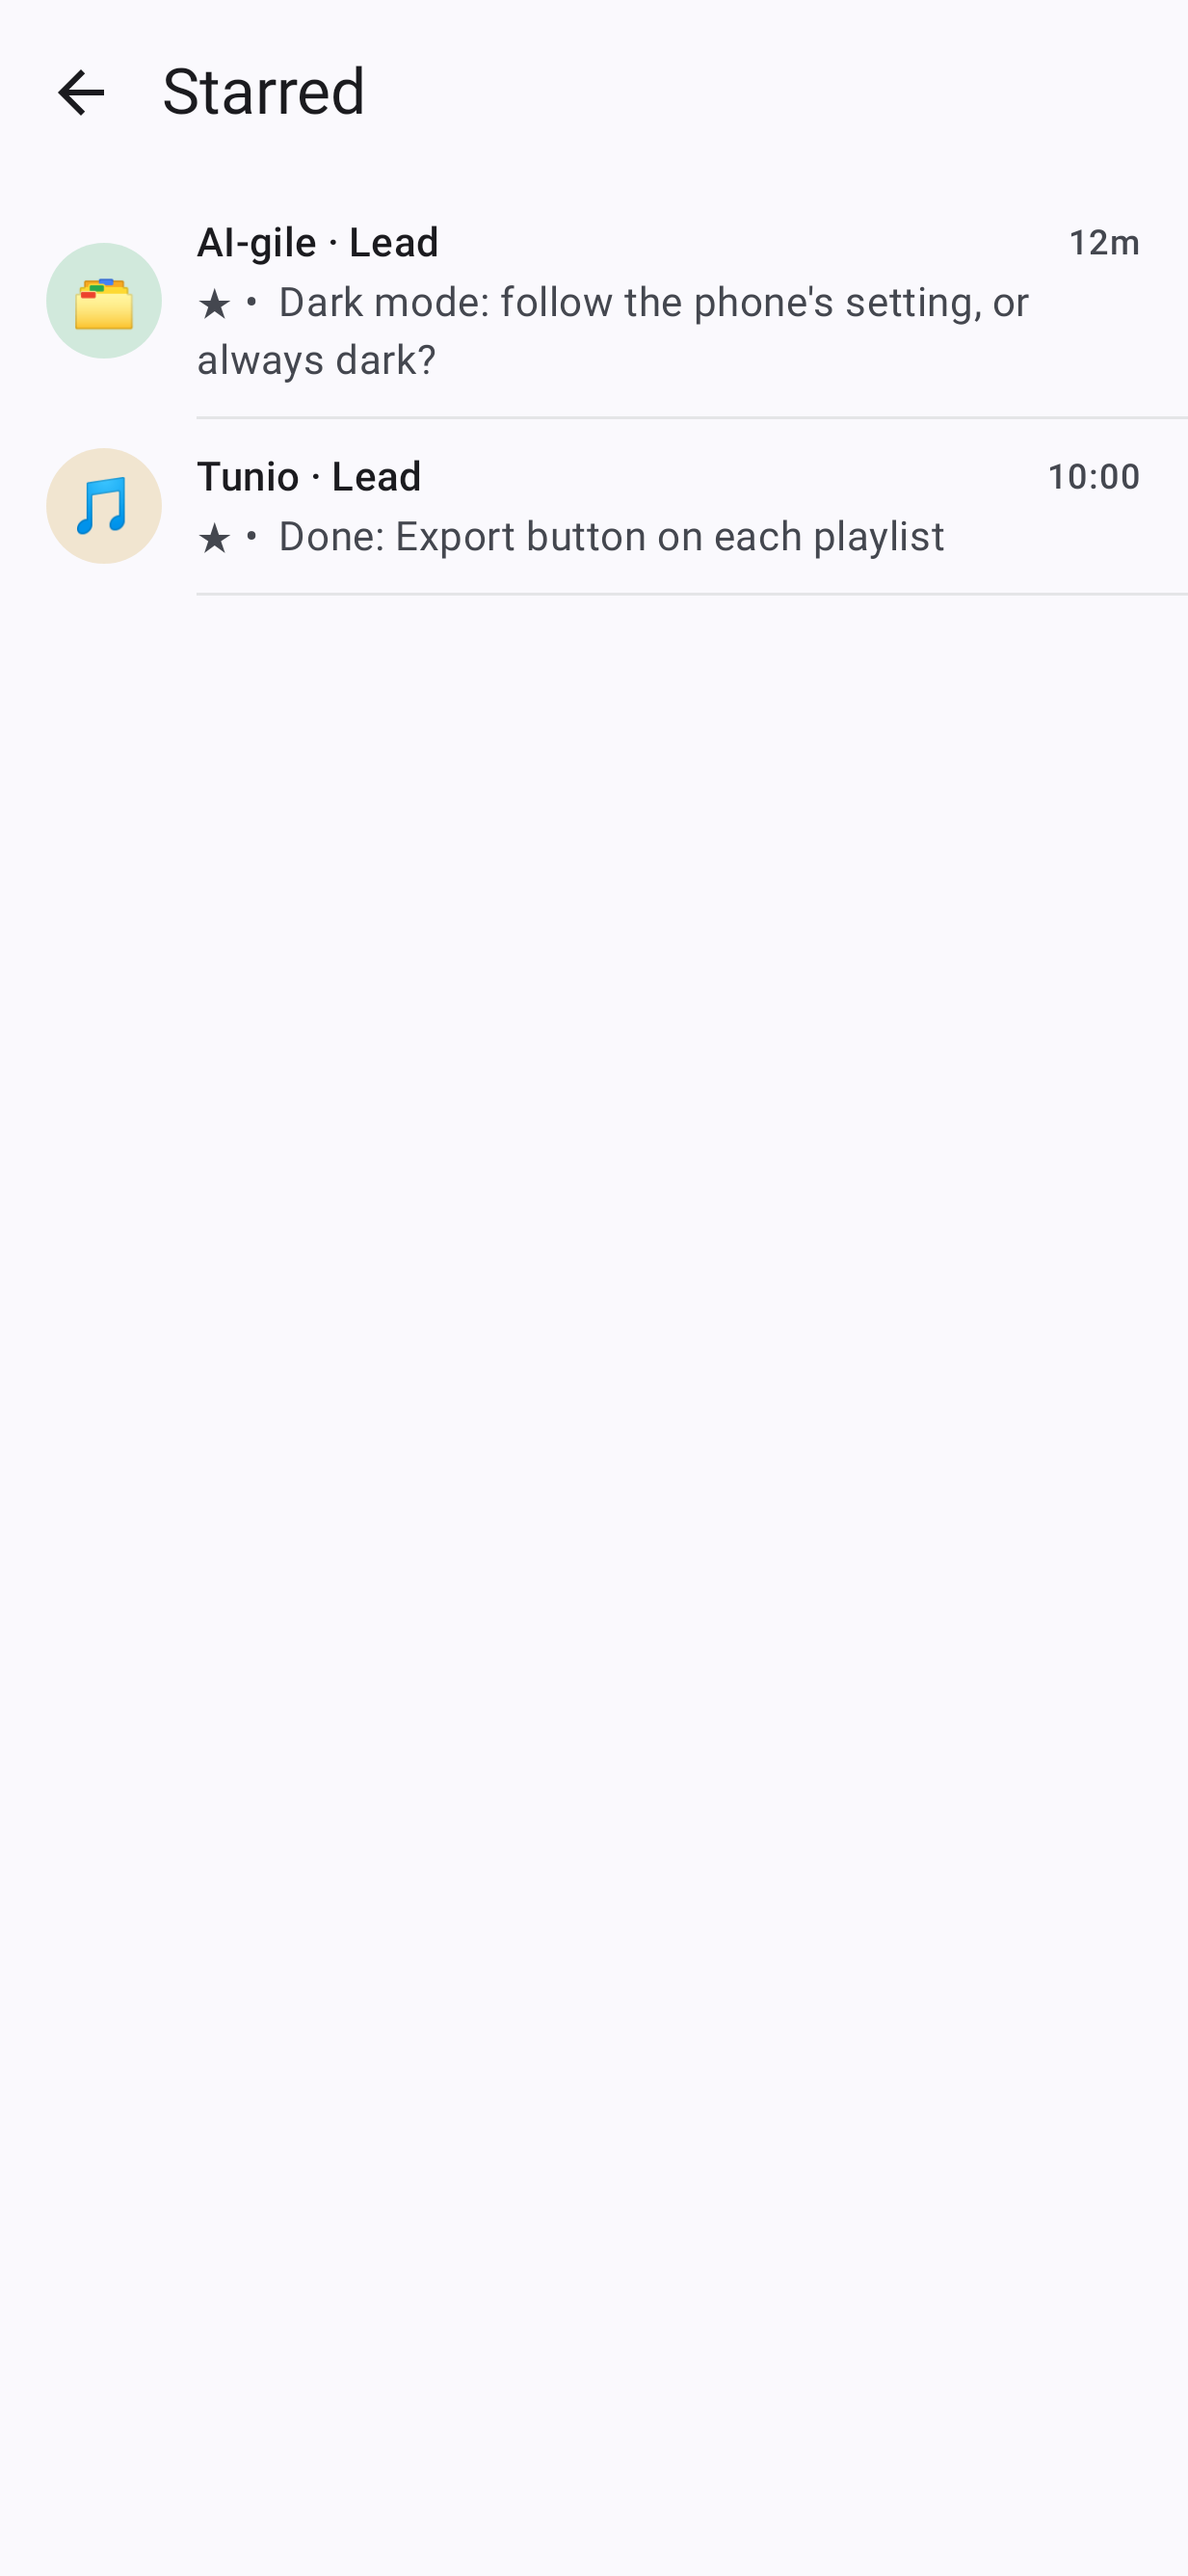
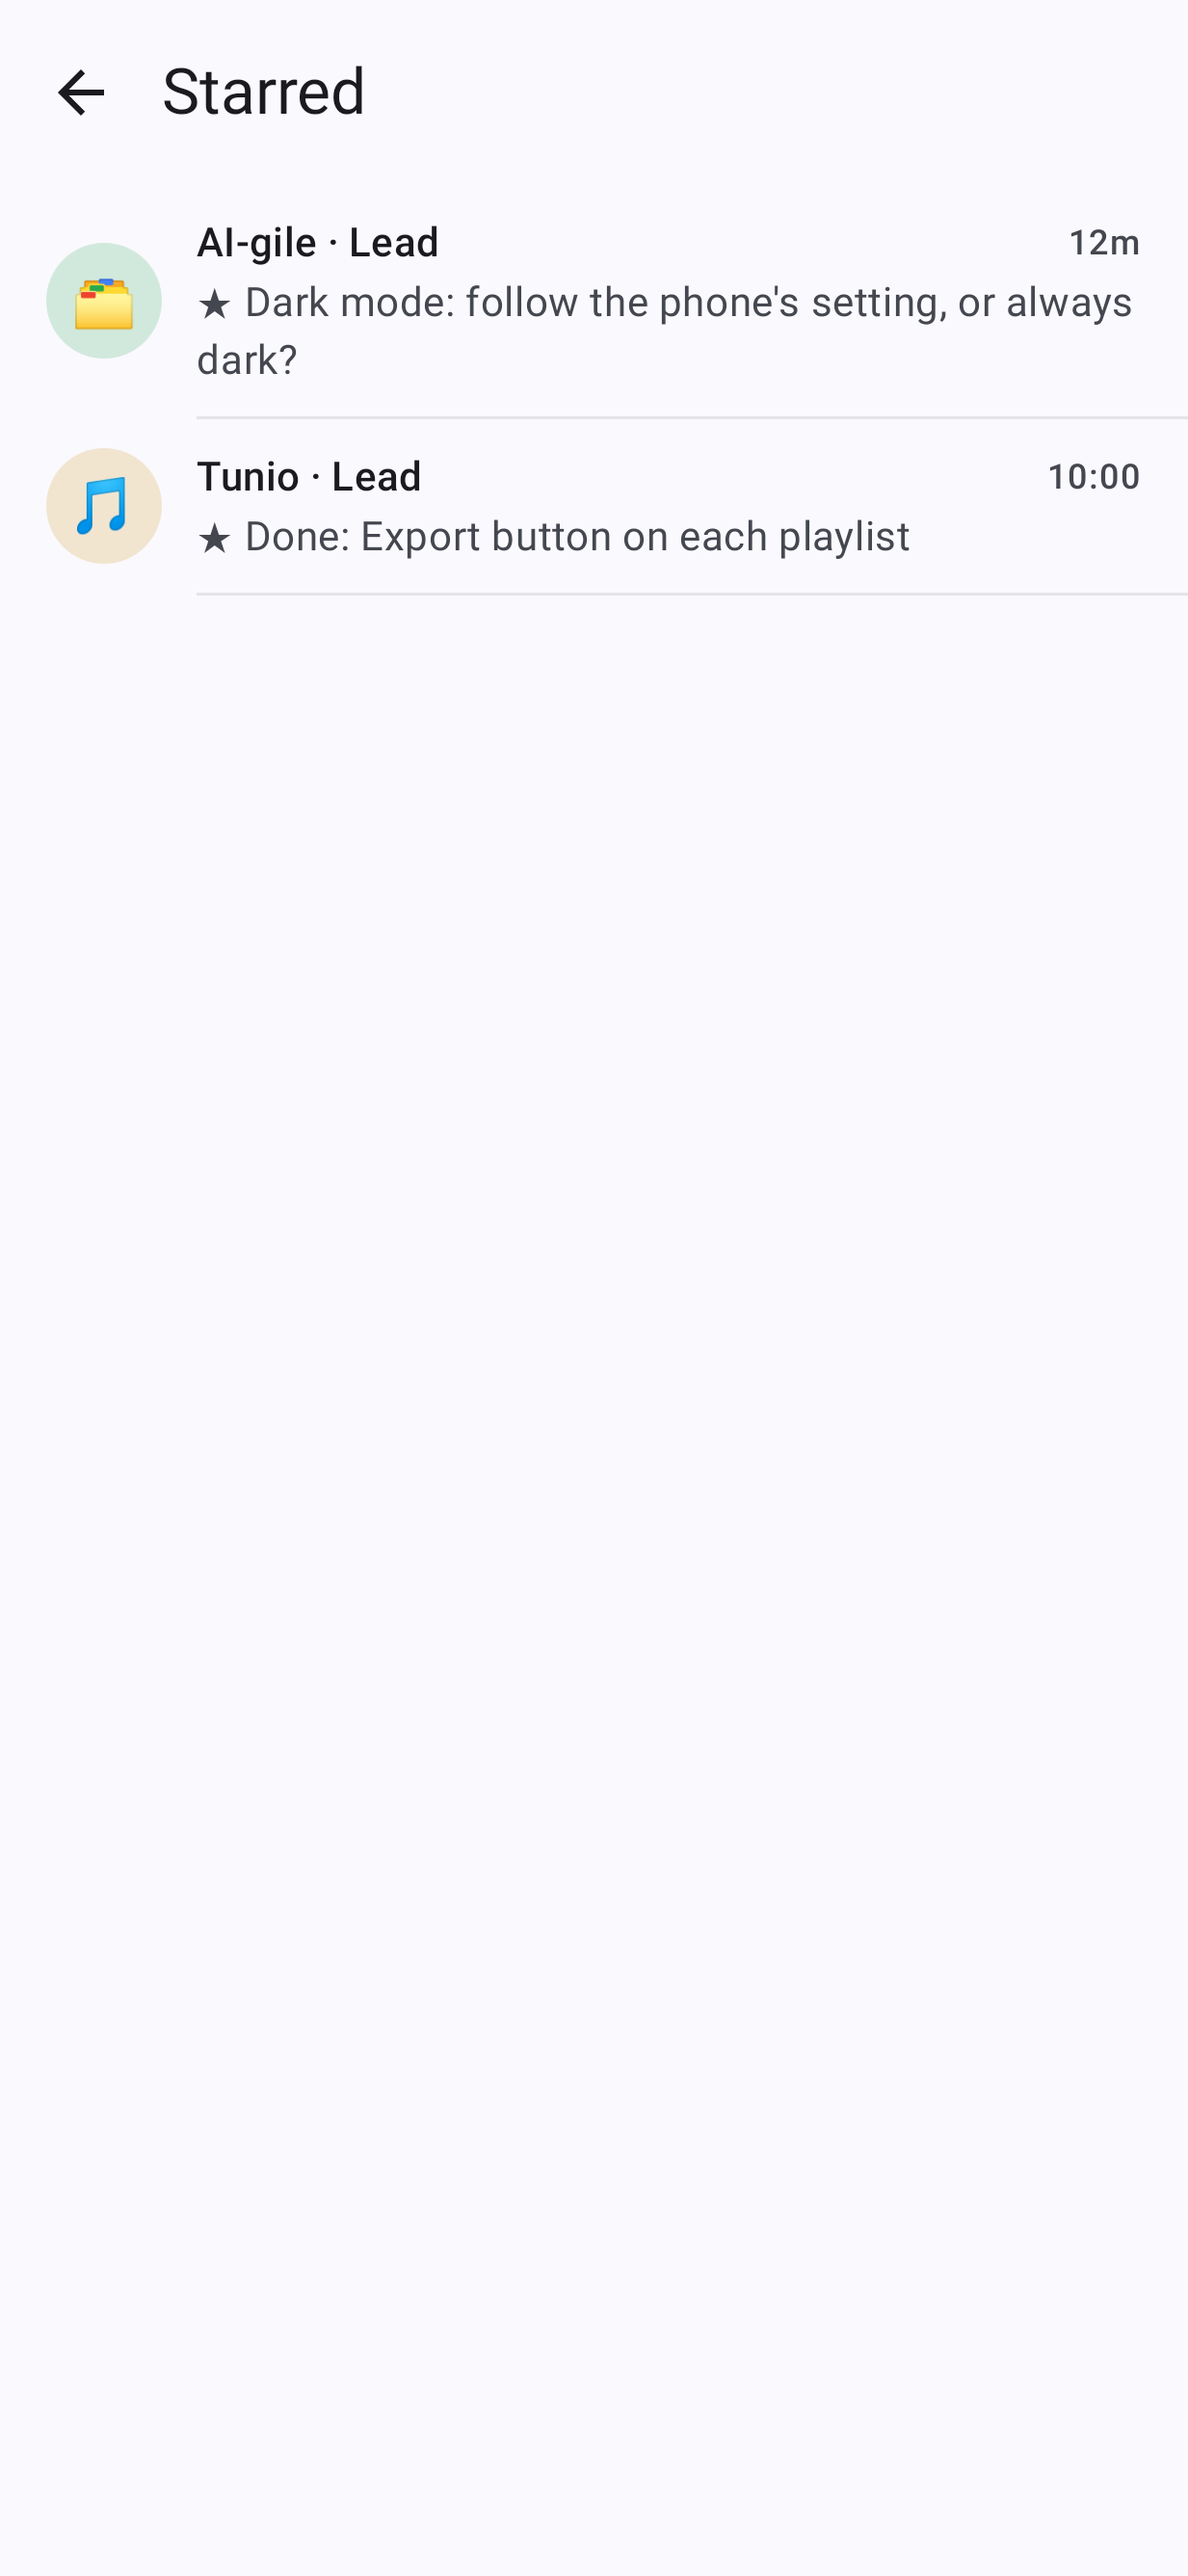
Starred list: hold a message to remove its star; previews drop a leading bullet (AII-143, AII-144)

Changed region(s): [[0.1849, 0.0932, 0.9554, 0.1553], [0.2157, 0.1863, 0.8013, 0.2174]]

diff --git a/app/src/main/java/com/smizflark/aigile/messenger/ui/StarredScreen.kt b/app/src/main/java/com/smizflark/aigile/messenger/ui/StarredScreen.kt
@@ -1,6 +1,8 @@
 package com.smizflark.aigile.messenger.ui
 
-import androidx.compose.foundation.clickable
+import androidx.compose.foundation.ExperimentalFoundationApi
+import androidx.compose.foundation.combinedClickable
+import androidx.compose.foundation.layout.Box
 import androidx.compose.foundation.layout.Column
 import androidx.compose.foundation.layout.Row
 import androidx.compose.foundation.layout.Spacer
@@ -12,6 +14,8 @@ import androidx.compose.foundation.lazy.LazyColumn
 import androidx.compose.foundation.lazy.items
 import androidx.compose.material.icons.Icons
 import androidx.compose.material.icons.automirrored.filled.ArrowBack
+import androidx.compose.material3.DropdownMenu
+import androidx.compose.material3.DropdownMenuItem
 import androidx.compose.material3.ExperimentalMaterial3Api
 import androidx.compose.material3.HorizontalDivider
 import androidx.compose.material3.Icon
@@ -21,7 +25,10 @@ import androidx.compose.material3.Scaffold
 import androidx.compose.material3.Text
 import androidx.compose.material3.TopAppBar
 import androidx.compose.runtime.Composable
+import androidx.compose.runtime.getValue
+import androidx.compose.runtime.mutableStateOf
 import androidx.compose.runtime.remember
+import androidx.compose.runtime.setValue
 import androidx.compose.ui.Alignment
 import androidx.compose.ui.Modifier
 import androidx.compose.ui.platform.testTag
@@ -32,13 +39,16 @@ import androidx.compose.ui.unit.dp
 import com.smizflark.aigile.messenger.R
 import com.smizflark.aigile.messenger.data.ChatRef
 import com.smizflark.aigile.messenger.data.Repo
+import com.smizflark.aigile.messenger.data.Star
 import com.smizflark.aigile.messenger.data.Stars
 
-/** Every starred message from all chats, newest first (AII-140); tap one and its chat opens at it. */
+/** Every starred message from all chats, newest first (AII-140); tap one and its chat opens at it, hold it to remove the star (AII-143). */
 @OptIn(ExperimentalMaterial3Api::class)
 @Composable
 fun StarredScreen(repo: Repo, onOpen: (ChatRef, String) -> Unit, onBack: () -> Unit) {
-    val stars = remember { Stars.everywhere(repo.store.stars(), repo.store.cachedChats() ?: emptyList()) }
+    val chats = remember { repo.store.cachedChats() ?: emptyList() }
+    var all by remember { mutableStateOf(repo.store.stars()) }
+    val stars = remember(all) { Stars.everywhere(all, chats) }
     Scaffold(
         topBar = {
             TopAppBar(
@@ -51,28 +61,43 @@ fun StarredScreen(repo: Repo, onOpen: (ChatRef, String) -> Unit, onBack: () -> U
             if (stars.isEmpty()) EmptyState(stringResource(R.string.no_starred))
             LazyColumn(Modifier.fillMaxSize()) {
                 items(stars, key = { (ref, s) -> "${ref.key}|${s.key}" }) { (ref, s) ->
-                    Row(
-                        Modifier.fillMaxWidth().clickable { onOpen(ref, s.key) }.padding(horizontal = 16.dp, vertical = 10.dp).testTag("starred-row"),
-                        verticalAlignment = Alignment.CenterVertically,
-                    ) {
-                        Avatar(ref, repo, 40.dp)
-                        Spacer(Modifier.width(12.dp))
-                        Column(Modifier.weight(1f)) {
-                            Row(verticalAlignment = Alignment.CenterVertically) {
-                                Text(listOf(ref.name, s.author).filter { it.isNotBlank() }.joinToString(" · "),
-                                    style = MaterialTheme.typography.titleSmall, fontWeight = FontWeight.Medium,
-                                    maxLines = 1, overflow = TextOverflow.Ellipsis, modifier = Modifier.weight(1f))
-                                Text(shortTime(s.at), style = MaterialTheme.typography.labelMedium, color = MaterialTheme.colorScheme.onSurfaceVariant)
-                            }
-                            val plain = Markdown.render(s.text, MaterialTheme.colorScheme.surfaceVariant, MaterialTheme.colorScheme.primary).text   // without the ** marks
-                            Text("★ " + plain.lines().firstOrNull { it.isNotBlank() }.orEmpty().trim(),
-                                style = MaterialTheme.typography.bodyMedium, color = MaterialTheme.colorScheme.onSurfaceVariant,
-                                maxLines = 2, overflow = TextOverflow.Ellipsis)
-                        }
-                    }
+                    StarRow(ref, s, repo, onClick = { onOpen(ref, s.key) },
+                        onUnstar = { all = Stars.toggle(all, s); repo.store.setStars(all) })
                     HorizontalDivider(Modifier.padding(start = 68.dp), color = MaterialTheme.colorScheme.outlineVariant.copy(alpha = 0.4f))
                 }
             }
+        }
+    }
+}
+
+@OptIn(ExperimentalFoundationApi::class)
+@Composable
+private fun StarRow(ref: ChatRef, s: Star, repo: Repo, onClick: () -> Unit, onUnstar: () -> Unit) {
+    var menu by remember { mutableStateOf(false) }
+    Box {
+        Row(
+            Modifier.fillMaxWidth().combinedClickable(onClick = onClick, onLongClick = { menu = true }, onLongClickLabel = stringResource(R.string.options))
+                .padding(horizontal = 16.dp, vertical = 10.dp).testTag("starred-row"),
+            verticalAlignment = Alignment.CenterVertically,
+        ) {
+            Avatar(ref, repo, 40.dp)
+            Spacer(Modifier.width(12.dp))
+            Column(Modifier.weight(1f)) {
+                Row(verticalAlignment = Alignment.CenterVertically) {
+                    Text(listOf(ref.name, s.author).filter { it.isNotBlank() }.joinToString(" · "),
+                        style = MaterialTheme.typography.titleSmall, fontWeight = FontWeight.Medium,
+                        maxLines = 1, overflow = TextOverflow.Ellipsis, modifier = Modifier.weight(1f))
+                    Text(shortTime(s.at), style = MaterialTheme.typography.labelMedium, color = MaterialTheme.colorScheme.onSurfaceVariant)
+                }
+                val plain = Markdown.render(s.text, MaterialTheme.colorScheme.surfaceVariant, MaterialTheme.colorScheme.primary).text   // without the ** marks
+                Text("★ " + Stars.preview(plain),
+                    style = MaterialTheme.typography.bodyMedium, color = MaterialTheme.colorScheme.onSurfaceVariant,
+                    maxLines = 2, overflow = TextOverflow.Ellipsis)
+            }
+        }
+        DropdownMenu(expanded = menu, onDismissRequest = { menu = false }) {
+            DropdownMenuItem(text = { Text(stringResource(R.string.unstar)) }, modifier = Modifier.testTag("starred-unstar"),
+                onClick = { menu = false; onUnstar() })
         }
     }
 }

diff --git a/app/src/main/java/com/smizflark/aigile/messenger/ui/ChatDetails.kt b/app/src/main/java/com/smizflark/aigile/messenger/ui/ChatDetails.kt
@@ -93,7 +93,7 @@ fun ChatDetails(ref: ChatRef, repo: Repo, info: ChatInfo, onFind: (() -> Unit)? 
                 starred.forEach { s ->
                     Column(Modifier.fillMaxWidth().clickable { onStarred(s.key) }.padding(vertical = 6.dp).testTag("details-star")) {
                         val plain = Markdown.render(s.text, MaterialTheme.colorScheme.surfaceVariant, MaterialTheme.colorScheme.primary).text   // without the ** marks
-                        Text("★ " + plain.lines().firstOrNull { it.isNotBlank() }.orEmpty().trim(),style = MaterialTheme.typography.bodyMedium,
+                        Text("★ " + com.smizflark.aigile.messenger.data.Stars.preview(plain),style = MaterialTheme.typography.bodyMedium,
                             maxLines = 2, overflow = TextOverflow.Ellipsis)
                         Text(listOf(s.author, fullTime(s.at)).filter { it.isNotBlank() }.joinToString(" · "),
                             style = MaterialTheme.typography.labelSmall, color = MaterialTheme.colorScheme.onSurfaceVariant)

diff --git a/app/src/test/java/com/smizflark/aigile/messenger/screens/ScreenshotTest.kt b/app/src/test/java/com/smizflark/aigile/messenger/screens/ScreenshotTest.kt
@@ -380,6 +380,11 @@ class ScreenshotTest {
         rule.onRoot().captureRoboImage("../docs/shots/starred_light.png")
         rule.onAllNodesWithTag("starred-row").onFirst().performClick()
         org.junit.Assert.assertEquals(repo.store.stars().maxBy { it.at }.key, opened?.second)
+        // AII-143: hold one, Remove star: it leaves the list.
+        rule.onAllNodesWithTag("starred-row").onFirst().performTouchInput { longClick() }
+        rule.onNodeWithTag("starred-unstar").performClick()
+        rule.onAllNodesWithTag("starred-row").assertCountEquals(1)
+        org.junit.Assert.assertEquals(1, repo.store.stars().size)
     }
     @Test fun newLight() = shot("new_message", false) { NewMessageScreen(repo, onBack = {}, onSent = {}) }
     @Test fun newDark() = shot("new_message", true) { NewMessageScreen(repo, onBack = {}, onSent = {}) }

diff --git a/app/src/main/java/com/smizflark/aigile/messenger/data/Stars.kt b/app/src/main/java/com/smizflark/aigile/messenger/data/Stars.kt
@@ -19,6 +19,9 @@ object Stars {
     /** This chat's stars, newest message first. */
     fun inChat(all: List<Star>, chat: String) = all.filter { it.chat == chat }.sortedByDescending { it.at }
 
+    /** The line a star shows in a list: the first line of the message (markdown already rendered), without a leading bullet (AII-144). */
+    fun preview(plain: String) = plain.lines().firstOrNull { it.isNotBlank() }.orEmpty().trim().removePrefix("•").trim()
+
     /** Every chat's stars, newest message first (AII-140); stars of chats this phone no longer has are left out, as they can't open. */
     fun everywhere(all: List<Star>, chats: List<ChatRef>): List<Pair<ChatRef, Star>> {
         val byKey = chats.associateBy { it.key }

diff --git a/app/src/test/java/com/smizflark/aigile/messenger/StarsTest.kt b/app/src/test/java/com/smizflark/aigile/messenger/StarsTest.kt
@@ -38,4 +38,9 @@ class StarsTest {
         val all = listOf(Stars.of(a.key, old), Stars.of(b.key, new), Stars.of("gone", new))
         assertEquals(listOf("Beta" to "k2", "Alpha" to "k1"), Stars.everywhere(all, listOf(a, b)).map { (r, s) -> r.name to s.key })
     }
+
+    @Test fun previewIsTheFirstLineWithoutABullet() {
+        assertEquals("Done: export", Stars.preview("\n• Done: export\nmore"))
+        assertEquals("plain", Stars.preview("plain"))
+    }
 }
